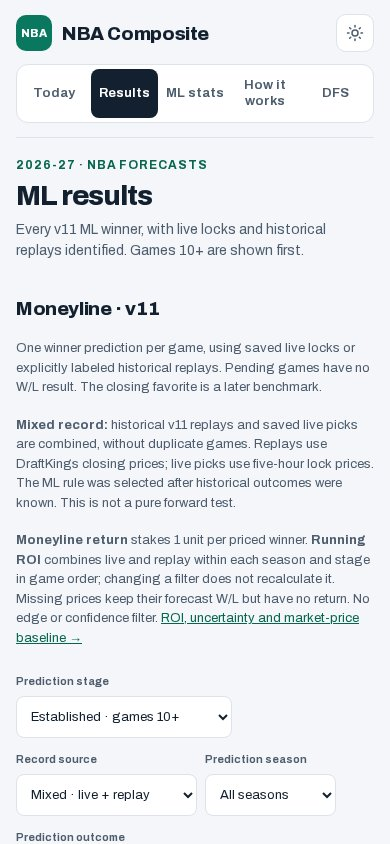
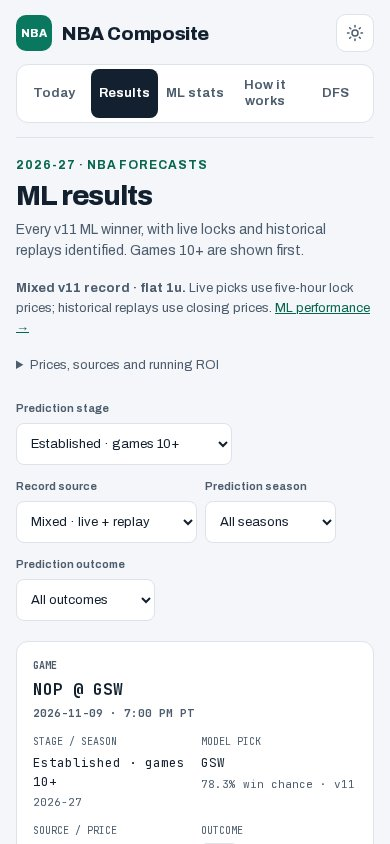
Keep ML results concise on mobile with expandable record definitions

diff --git a/public_site.py b/public_site.py
@@ -492,10 +492,7 @@ class PublicSite:
 
     def prediction_results(self):
         u, d = self.ui, analysis.model_prediction_moneyline(self.predictions)
-        body = ("<h2 class='sec'>Moneyline · v11</h2><p class='public-note'>One winner prediction per game, "
-                "using saved live locks or explicitly labeled historical replays. "
-                "Pending games have no W/L result. The closing favorite is a later benchmark.</p>")
-        body += self.prediction_moneyline_note(d)
+        body = self.prediction_moneyline_note(d)
         if not len(d):
             return body + "<div class='public-empty'><h3>No locked v11 predictions yet</h3><p>Predictions appear here after a valid five-hour snapshot is saved.</p></div>"
         options = (("stage", "Prediction stage", list(PREDICTION_STAGES)+[("all", "All stages")]),
@@ -554,10 +551,13 @@ class PublicSite:
                 "The ML rule was selected after historical outcomes were known. This is not a pure forward test.</p>")
 
     def prediction_moneyline_note(self, d):
-        return (self.mixed_note() + "<p class='public-note' data-prediction-moneyline><b>Moneyline return</b> stakes 1 unit per priced winner. "
+        return ("<p class='public-note' data-prediction-moneyline><b>Mixed v11 record · flat 1u.</b> Live picks use five-hour lock prices; "
+                "historical replays use closing prices. <a href='performance.html'>ML performance →</a></p>"
+                "<details class='public-note'><summary>Prices, sources and running ROI</summary>" + self.mixed_note()
+                + "<p><b>Moneyline return</b> stakes 1 unit per priced winner. "
                 "<b>Running ROI</b> combines live and replay within each season and stage in game order; changing a filter does not recalculate it. "
                 "Missing prices keep their forecast W/L but have no return. No edge or confidence filter. "
-                "<a href='performance.html'>ROI, uncertainty and market-price baseline →</a></p>")
+                "<a href='performance.html'>ROI, uncertainty and market-price baseline →</a></p></details>")
 
     def prediction_performance(self):
         u, d = self.ui, analysis.model_prediction_moneyline(self.predictions)
